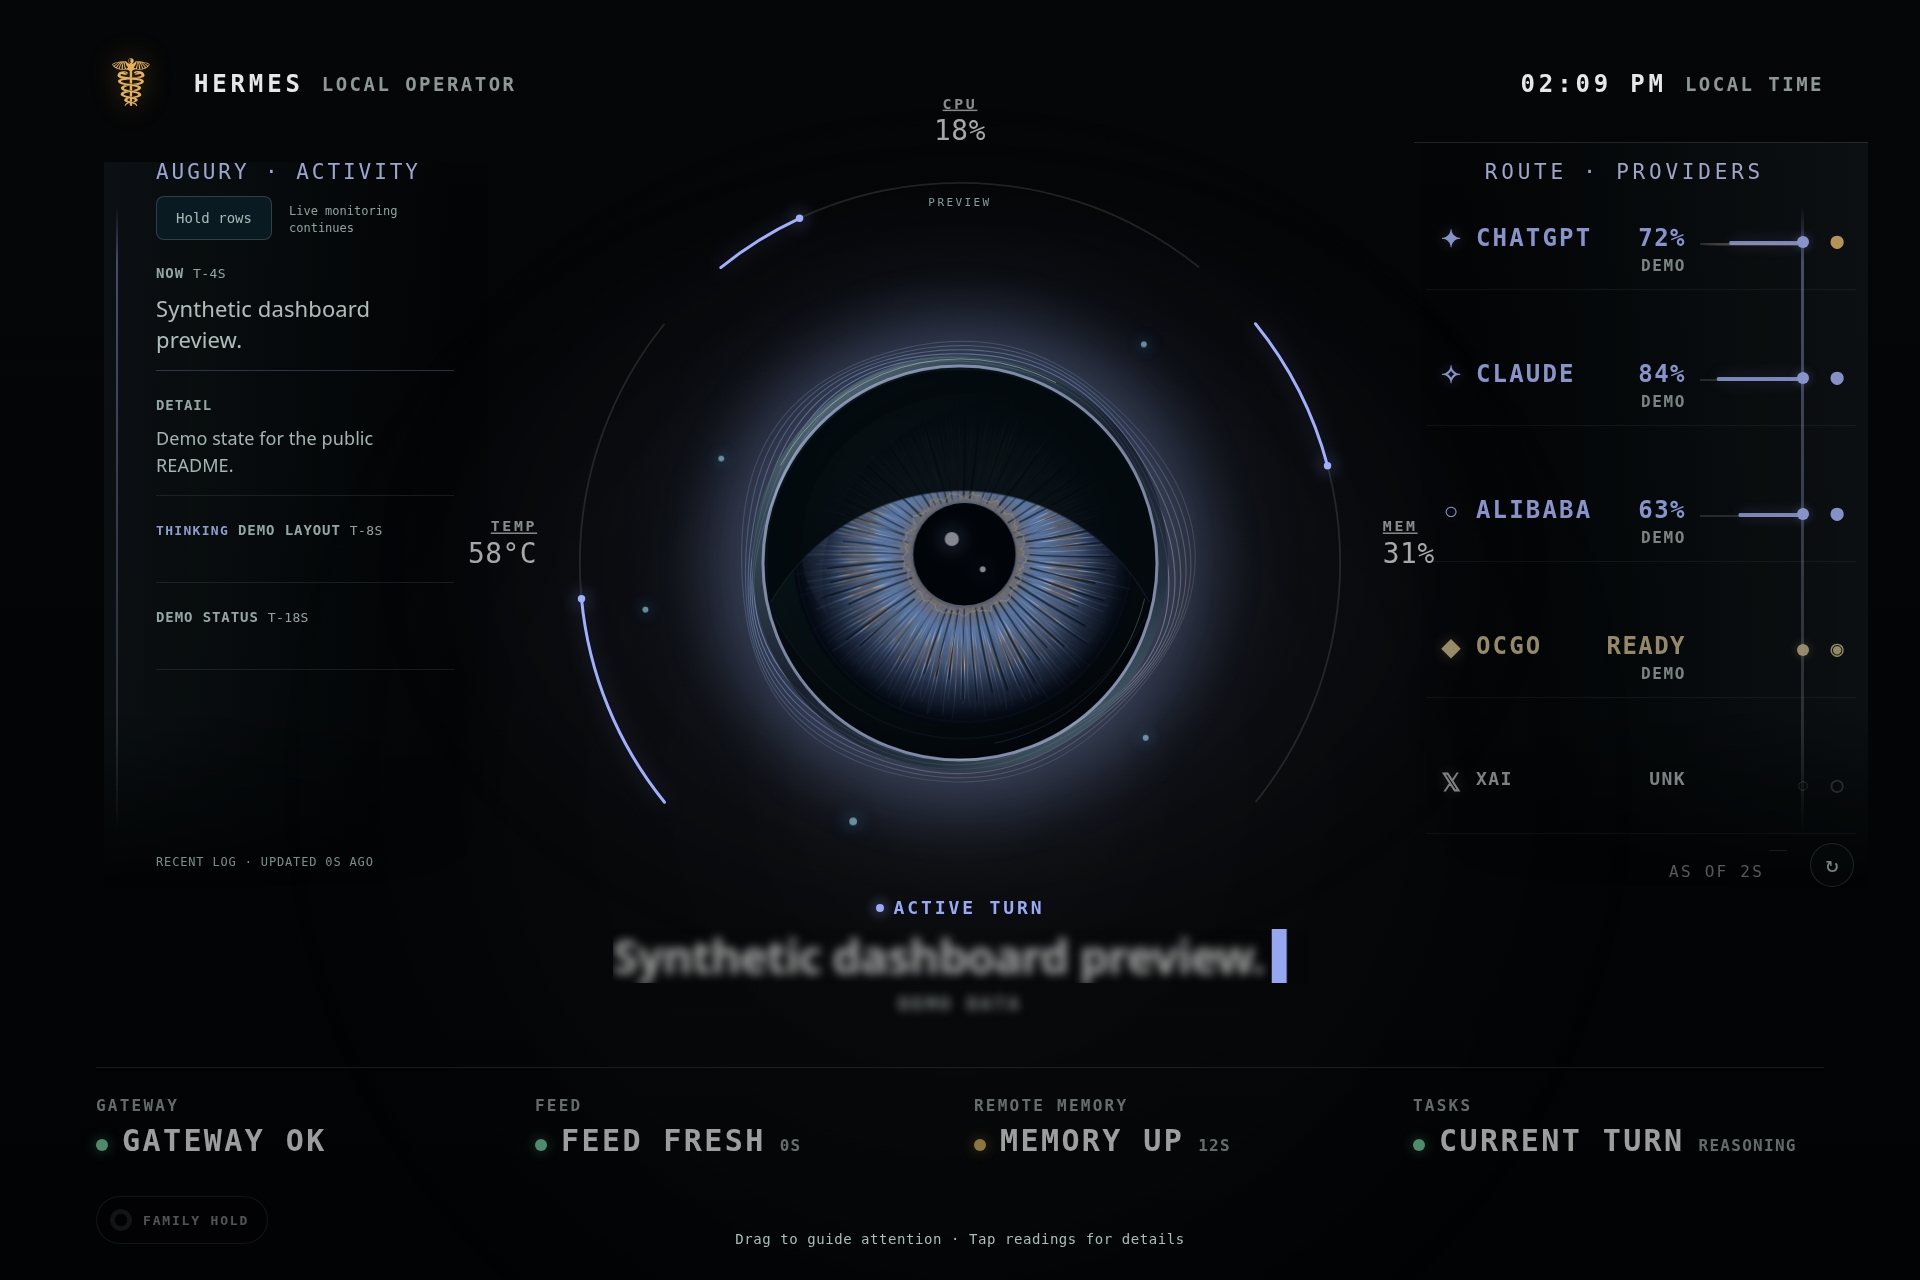
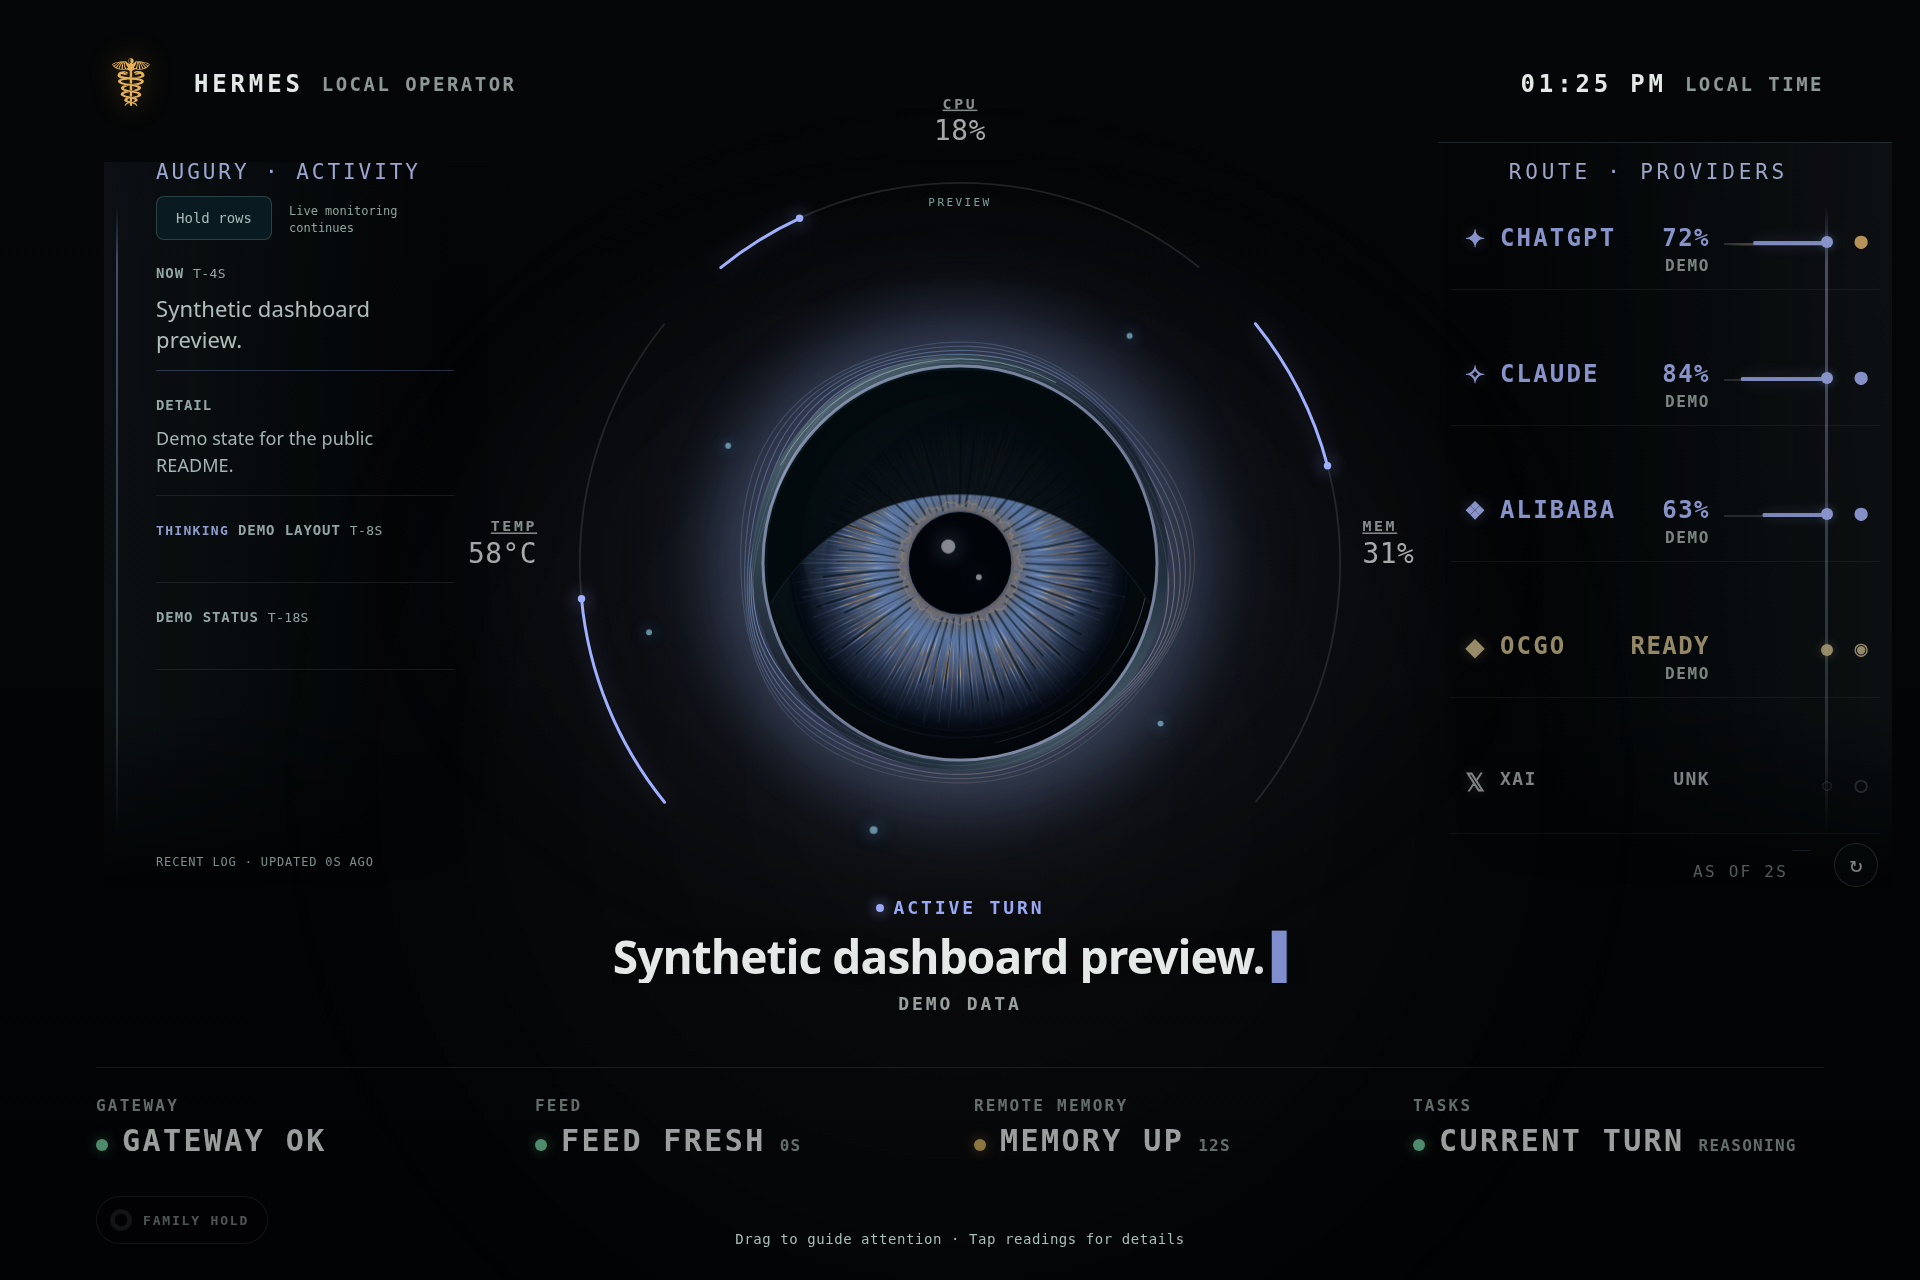
docs: refresh display screenshot and current operator guidance

diff --git a/README.md b/README.md
@@ -2,13 +2,16 @@
 
 A local, browser-based companion display for [Hermes Agent](https://github.com/NousResearch/hermes-agent). It turns a small screen attached to a home-lab machine into an ambient status panel for an AI operator: current activity, tool use, health, degraded states, touch cues, and a lightweight character runtime.
 
-![Hermes personal display screenshot](docs/current-dashboard.png)
+![Synthetic Hermes operator display with sharp activity copy and separate memory and provider readings](docs/current-dashboard.png)
 
-The public screenshot uses bounded synthetic state at the reference 1920 x 1280
-viewport. Live physical framebuffer captures remain private verification
-artifacts and are not copied into the public repository.
+This [full-size 1920 x 1280 preview](docs/current-dashboard.png) uses bounded
+synthetic state. The center activity stays readable, and the MEM reading has
+space between it and Route Providers. Live physical framebuffer captures remain
+private verification artifacts and are not copied into the public repository.
 
-Refresh the public image while the local preview server is available:
+Refresh the public image only after the candidate build is verified and the
+matching local preview server is available; inspect the generated pixels before
+committing:
 
 ```bash
 npm run capture:public
@@ -37,6 +40,7 @@ Current capabilities include:
 - Assistant state: idle, active, waiting, finalizing, complete, blocked, degraded.
 - Tool activity hints: shell, Python, file reads, search, patch/write, browser, web, planning.
 - Provider/model route rail for quick visibility into active backend routing, with compact provider marks that inherit each route's live state color.
+- Readable, stationary activity copy. Sensitive activity uses a fixed bounded placeholder instead of a blurred caption; provider route identifiers do not make unrelated activity appear sensitive.
 - Health rails for display feed freshness, local service state, and degraded conditions.
 - A character runtime with gaze, blink, mouth, status badges, touch effects, bounded task-linked pupil dilation, and motion states.
 - Local touch/entertainment hooks for physical-display experiments.
@@ -341,9 +345,9 @@ This project does not require a specific display or mini PC. The public screensh
 - **Display:** [MINIX SF10T portable monitor](https://www.amazon.com/dp/B0G3PBK4LG), a 10.5-inch IPS touchscreen panel.
 - **Native panel mode:** 1920 x 1280, 3:2 aspect ratio, 60 Hz.
 - **Display connectivity:** USB-C with DP Alt Mode or Mini HDMI, with separate USB touch/power wiring depending on host support.
-- **Reference host:** Intel NUC7i5BNH mini PC.
-- **CPU/GPU:** Intel Core i5-7260U with Intel Iris Plus Graphics 640.
-- **Software stack used here:** Linux, Xorg/Openbox, Chromium kiosk, Python display-state server, and systemd user services.
+- **Original reference host:** Intel NUC7i5BNH mini PC (Core i5-7260U / Iris Plus Graphics 640).
+- **Current physical deployment:** an upgraded Linux host. Inspect the actual CPU, display topology, and services before using the older NUC-specific setup notes.
+- **Software stack used here:** Linux, Xorg/Openbox, Chromium kiosk, Python display-state server, a system kiosk unit, and user-level preview/updater services.
 
 Those details are included so other Hermes Agent users can reproduce the physical setup with similar small-panel hardware. Treat them as a known-good reference, not a bill of materials.
 
@@ -351,15 +355,21 @@ Those details are included so other Hermes Agent users can reproduce the physica
 
 The repo includes systemd user unit templates under `deploy/systemd-user/`. See `docs/systemd-user-units.md` for the service layout, install notes, and local environment boundaries.
 
-Typical flow:
+For a new installation or user-session test, the checked-in templates provide a starting point:
 
 ```bash
 scripts/detect-display-env.sh
 scripts/install-user-units.sh
 systemctl --user daemon-reload
 systemctl --user start hermes-personal-display-preview.service
-systemctl --user start hermes-personal-display-kiosk.service
 ```
+
+The physical reference panel instead uses the system-level
+`hermes-personal-display-minix.service`. The installed merged-`main` updater
+validates a release, switches its symlink atomically, restarts the preview and
+kiosk, and verifies the live render with rollback on failure. See
+[`docs/systemd-user-units.md`](docs/systemd-user-units.md) before installing or
+restarting the system kiosk; do not substitute an untested pull and restart.
 
 Keep machine-specific values in your local environment file. Start from:
 
@@ -371,7 +381,7 @@ Do not commit live display paths, session values, API keys, or machine-specific 
 
 ## Display control CLI
 
-The live NUC display is controlled through the service-aware CLI:
+The live physical display is controlled through the service-aware CLI:
 
 ```bash
 hermes-display status
@@ -411,7 +421,7 @@ Useful next steps for contributors:
 - Add a small sample state publisher that does not depend on a specific home setup.
 - Split reusable event-bus/state contracts into a cleaner package boundary.
 - Add screenshots or short clips for major display states.
-- Add GitHub Actions for tests and secret scanning.
+- Extend the existing GitHub Actions test and publication-safety coverage as the runtime grows.
 - Add a documented theme/character customization path.
 
 ## Keywords

diff --git a/docs/systemd-user-units.md b/docs/systemd-user-units.md
@@ -33,7 +33,7 @@ Do not confuse `launch-kiosk.sh` with the live `xsession-minix-kiosk.sh` path. T
 
 ## Safe user-unit install workflow
 
-1. From the graphical session or the NUC shell, inspect display/audio candidates:
+1. From the graphical session or the display host shell, inspect display/audio candidates:
 
    ```bash
    ./scripts/detect-display-env.sh .review-tmp/display-env-report.txt
@@ -113,16 +113,26 @@ Do not confuse `launch-kiosk.sh` with the live `xsession-minix-kiosk.sh` path. T
 
 ## System kiosk recovery install
 
-The live kiosk unit is system-level because it owns tty7/startx and conflicts with the display manager. The checked-in `hermes-personal-display-minix.service` is a template containing `@PROJECT_ROOT@`, `@USER@`, `@HOME@`, and `@UID@`; do not copy it directly into `/etc/systemd/system`. To restore it on the NUC, render/install it with the helper:
+The live kiosk unit is system-level because it owns tty7/startx and conflicts with the display manager. The checked-in `hermes-personal-display-minix.service` is a template containing `@PROJECT_ROOT@`, `@USER@`, `@HOME@`, and `@UID@`; do not copy it directly into `/etc/systemd/system`. To restore it on the display host, render/install it with the helper:
 
 ```bash
 ./scripts/install-system-unit.sh
-sudo install -m 0644 deploy/systemd-system/hermes-nuc-thermal-policy.service /etc/systemd/system/hermes-nuc-thermal-policy.service
 sudo systemctl daemon-reload
-sudo systemctl enable --now hermes-nuc-thermal-policy.service
 sudo systemctl restart hermes-personal-display-minix.service
 ./scripts/hermes-display verify
 ```
+
+The `hermes-nuc-thermal-policy.service` template is an **optional old-NUC-only**
+80% Intel p-state cap. Do not install or enable it as part of generic display
+recovery. The upgraded reference host currently runs without that cap at a
+configured 100% target. Measure the actual host before choosing a thermal
+policy; the historical opt-in procedure is in `docs/thermal-baseline.md`.
+
+For this installation, an installed user-level merged-`main` updater owns the
+validated release switch and kiosk restart. It tests an isolated archive,
+atomically switches the deployed release, verifies the live framebuffer, and
+rolls back on failure. It is host configuration, not a checked-in user unit.
+Do not replace it with `git pull` followed by a manual kiosk restart.
 
 Machine-specific display/audio choices belong in `~/.config/hermes-personal-display.env`; the scripts fall back to auto-detection where possible.
 
@@ -157,4 +167,7 @@ npm test
 ./scripts/hermes-display screenshot
 ```
 
-`hermes-display verify` checks the generated build id, canonical Chromium URL, configured display output geometry, audio sink/volume, and Intel p-state thermal policy (`max_perf_pct` target defaults to 80 on the Hermes NUC kiosk baseline).
+`hermes-display verify` checks the generated build id, canonical Chromium URL,
+configured display output geometry, audio sink/volume, and the configured
+Intel p-state target. The script's default target is 80% for the historical
+NUC policy; the upgraded host sets 100% and does not enable the NUC unit.

diff --git a/CLAUDE.md b/CLAUDE.md
@@ -6,7 +6,7 @@ This file provides guidance to Claude Code (claude.ai/code) when working with co
 
 Local browser kiosk / ambient status display for Hermes Agent. A Vite-built SVG character runtime
 (`src/character-runtime.html` + `src/mascot/`) renders display-safe agent state on a small physical
-touchscreen (MINIX SF10T on a NUC, Chromium kiosk via systemd user services). A Python server
+touchscreen (MINIX SF10T, Chromium kiosk via a system-level kiosk unit and user-level preview). A Python server
 (`scripts/hermes_display_server.py`) serves static files plus `/api/hermes-state` and an avatar
 event SSE bus. JS side has no framework — vanilla modules with vendored anime.js/xstate/zod/dompurify.
 
@@ -83,11 +83,15 @@ Local services bind loopback by default.
 - **check scripts are intentional stiffness:** `scripts/check-kiosk-recommendation-regressions.js` and
   friends pattern-match exact source lines and numeric constants. Refactoring guarded code requires
   updating the guard in the same change — that is by design, not an accident to work around.
-- **Git hooks:** pre-commit auto-refreshes `docs/current-dashboard.png` from bounded synthetic state when frontend files change
-  (skip with `HERMES_SKIP_DASHBOARD_CAPTURE=1`). For the public
-  `bgrablin/hermes-personal-display` remote, pre-push permits updates only from matching local
-  `main`, `feat/cron-incident-watch`, or `feat/concurrent-tool-activity` refs; it never permits
-  deletion, tags, arbitrary sources, or refs outside that allowlist. Every allowed tip must descend
+- **Public screenshot:** `docs/current-dashboard.png` is the image embedded in the README.
+  After a visible runtime change, run `npm run capture:public` against the verified
+  current build, inspect its synthetic pixels, and update the README and manifest in
+  the same candidate. Never commit a live framebuffer capture. The pre-commit hook
+  auto-refreshes the synthetic image for staged frontend changes; its skip switch
+  must not leave a visual change merged with a stale README image.
+- **Git hooks:** for the public `bgrablin/hermes-personal-display` remote,
+  pre-push permits `main` and a named allowlist of matching local review refs; it
+  never permits deletion, tags, arbitrary sources, or other refs. Every allowed tip must descend
   from the current public `main`, and every commit unique to that public base must use the
   `bgrablin` author and committer identity with a valid signature matching the configured public
   signing key. The hook checks each exact public-main-to-tip range because the installed

diff --git a/docs/project-manifest.md b/docs/project-manifest.md
@@ -6,9 +6,9 @@ This repository is intentionally trimmed to the files needed to run, test, and o
 
 - `src/character-runtime.html` — canonical browser/kiosk entrypoint.
 - `src/mascot/` — current optic/orb runtime, behavior machine, touch effects, audio hooks, and entertainment/watch logic.
-- `src/styles.css` — kiosk composition, fixed optic material edge, recessed instrument rails, and visible inspection affordances; no decorative telemetry.
+- `src/styles.css` — kiosk composition, fixed optic material edge, recessed instrument rails, and visible inspection affordances; no decorative telemetry. Center activity copy is not blurred; the provider rail leaves room for the MEM reading.
 - `tests/e2e/visual-material.spec.js` — synthetic landscape tests for fixed housing, stationary copy, unknown meters, preview separation, and touch inspection.
-- `src/state.js` — display-state normalization and contract consumption.
+- `src/state.js` — display-state normalization and contract consumption. Route metadata does not classify unrelated activity as sensitive; credential-shaped visible work identifiers are redacted.
 - `src/vendor/` — vendored browser libraries used directly by the runtime.
 - `src/generated/display-contract.js` — generated browser contract constants.
 - `src/generated/build-id.js` — generated content-hash build id used by the runtime, cache keys, and kiosk verification.
@@ -40,6 +40,7 @@ This repository is intentionally trimmed to the files needed to run, test, and o
 - `scripts/launch-herdr-monitor-display.sh` — validates dependencies and launches the optional terminal renderer.
 - `scripts/capture-public-dashboard.cjs` — generates the public README image from bounded synthetic state.
 - `scripts/capture-current-dashboard.sh` — keeps physical captures private and routes repository captures through the synthetic generator.
+- `docs/current-dashboard.png` — synthetic 1920×1280 README preview, refreshed after visible changes and inspected before publication; it is not a live framebuffer capture.
 - `scripts/generate-build-id.js` — synchronizes `src/generated/build-id.js` and first-party runtime `?v=` cache keys.
 - `integrations/display-observer/` — symlink-installed Hermes observer plugin entrypoint and metadata.
 - `integrations/requirements.txt` — exact optional Python dependency pin for RPC monitoring.

diff --git a/docs/display-contract.md b/docs/display-contract.md
@@ -64,3 +64,15 @@ The contract allows display-safe state only. It should not carry:
 - unbounded free-text diagnostic payloads
 
 Use `tests/fixtures/README.md` when adding fixtures so examples stay synthetic and auditable.
+
+## Operator presentation
+
+The center activity is readable and stationary. Safe, bounded work summaries remain
+sharp even if provider route identifiers contain words such as `token`. Route
+metadata does not classify the whole packet as sensitive. When an actual work
+field or operator-only snippet triggers the sensitive state, the center caption,
+attention line, and top-alert detail use the fixed `Private activity hidden.`
+placeholder instead of blurring private text. Credential-shaped work identifiers
+are redacted before rendering. The MEM arc reading stays separate from the Route
+Providers rail at the reference 1920×1280 viewport. A synthetic README image
+illustrates this layout; verify the physical framebuffer independently.

diff --git a/docs/luminous-presence.md b/docs/luminous-presence.md
@@ -35,7 +35,11 @@ stronger surface contours preserve detail without another glow or animation loop
 The activity and provider rails share recessed, open-ended backgrounds and row
 rules. These surfaces contain no synthetic measurements or activity. Unknown
 providers remain readable and retain empty headroom tracks; the active-provider
-underline is confined to its meter rather than crossing the whole rail.
+underline is confined to its meter rather than crossing the whole rail. The
+Route Providers rail leaves room for the MEM arc reading at 1920×1280. Centered
+activity copy stays stationary and sharp; a sensitive state substitutes a bounded
+readable placeholder rather than applying an optical blur.
+
 Activity timestamps, refresh, and the touch hint have stronger contrast. Underlined
 metric labels indicate inspection without drawing boxes across the side rails.
 The generous existing touch targets remain unchanged. The preview marker sits

diff --git a/AGENTS.md b/AGENTS.md
@@ -24,6 +24,7 @@ This repository is a local browser kiosk and ambient status display for Hermes A
 - For UI or runtime changes, also run `npx playwright install --with-deps chromium` when needed and `npm run test:e2e -- --workers=1`; `npm run test:all` is the full local gate.
 - Run focused guards as relevant: `npm run check:client-events`, `npm run check:kiosk`, `npm run check:augury-feed`, and `./scripts/verify-project.sh`.
 - `npm run review:presence` records the synthetic visual rehearsal under `test-results/presence/`.
+- For visible changes, refresh the README's `docs/current-dashboard.png` with `npm run capture:public` against the verified current build, inspect the synthetic image, and include it with the documentation before commit. A private live framebuffer screenshot is verification evidence, not a public README asset.
 
 # Contracts and privacy
 

diff --git a/docs/minix-sf10t-bringup.md b/docs/minix-sf10t-bringup.md
@@ -1,5 +1,12 @@
 # MINIX SF10T bring-up plan
 
+**Historical plan (2026-05-16), not current recovery instructions.** The physical
+panel now runs in inverted 1920×1280 landscape through the system-level
+`hermes-personal-display-minix.service` on an upgraded host. Use
+[`systemd-user-units.md`](systemd-user-units.md) and the service-aware
+`hermes-display` CLI for current operation; do not run the portrait-mode or
+old NUC thermal steps below as a live recovery recipe.
+
 Date prepared: 2026-05-16
 Target hardware: MINIX SF10T 10.5" portable touchscreen monitor
 Amazon short link provided by Brian: https://a.co/d/02asRjP3
